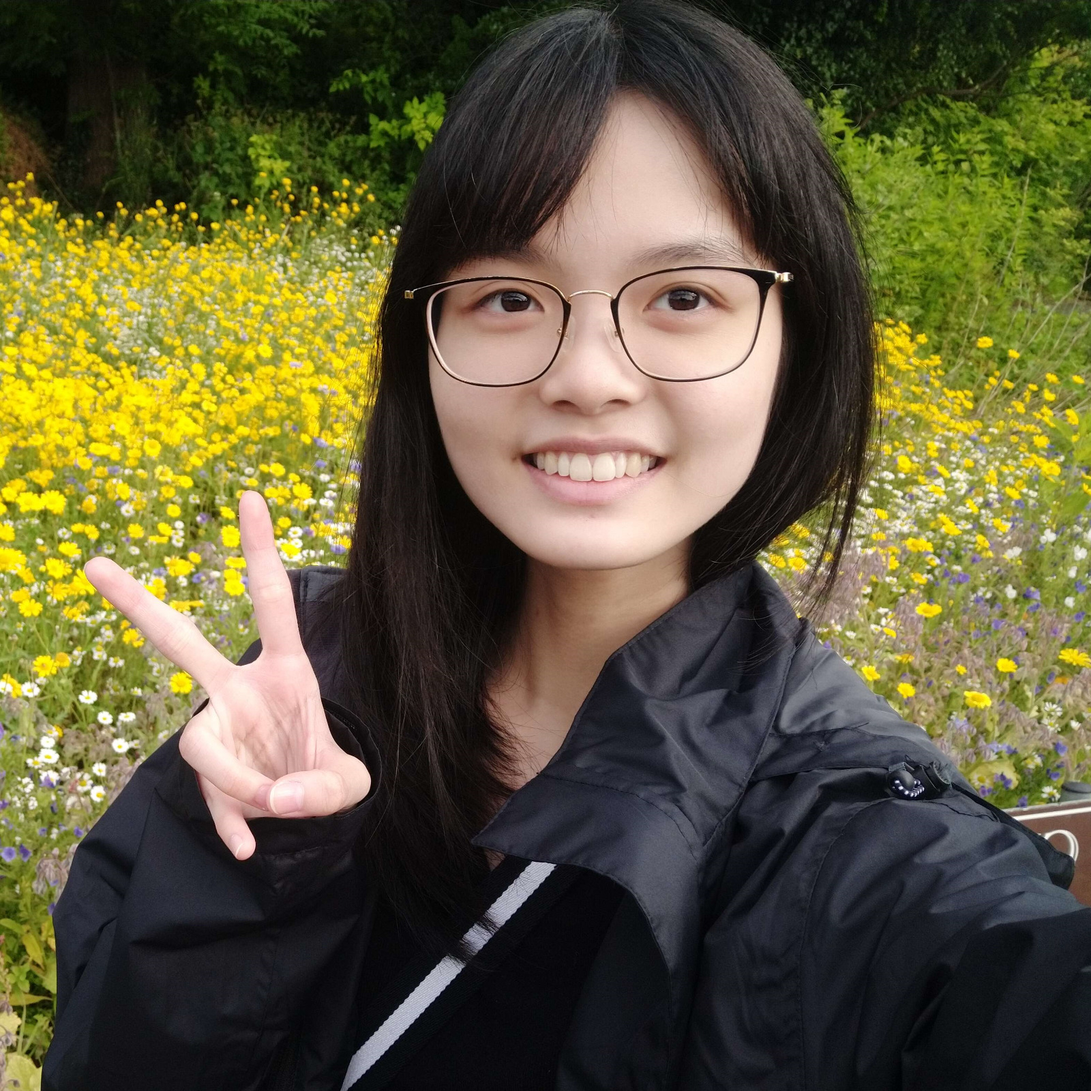
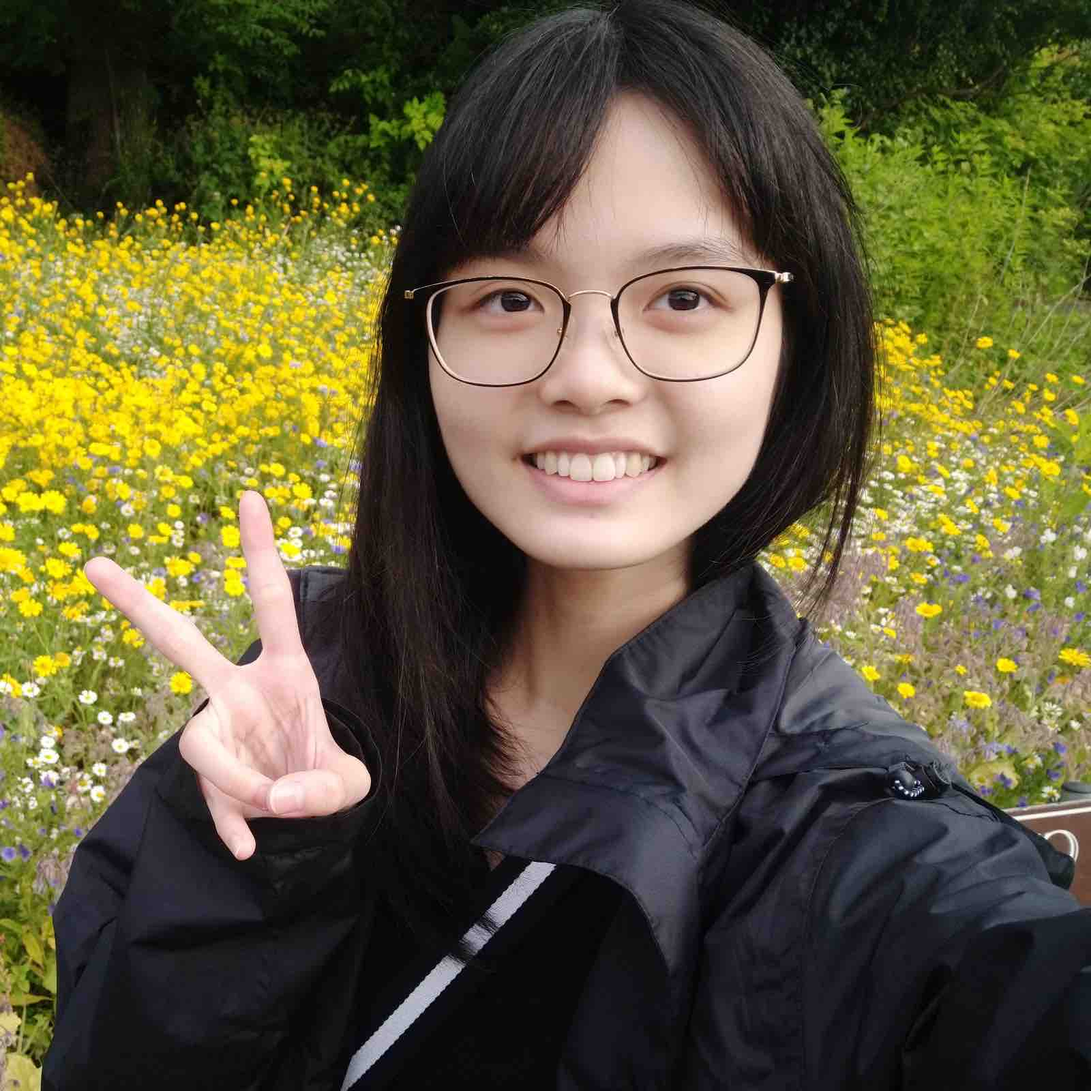
reduce file size

diff --git a/docs/index.html b/docs/index.html
@@ -69,7 +69,7 @@
 					<div class="avatar text-center">
 						<img src="./public/img/team2A/Ang Quan Xing.jpg" alt="avatar" class="avatar-img">
 						<img src="./public/img/team2A/Cheo Cheang Min.jpeg" alt="avatar" class="avatar-img">
-						<img src="./public/img/team2A/Darren Quek Ser Wee.png" alt="avatar" class="avatar-img">
+						<img src="./public/img/team2A/Darren Quek Ser Wee.jpg" alt="avatar" class="avatar-img">
 						<img src="./public/img/team2A/Mirza Bin Mohamad Aljaru.jpg" alt="avatar" class="avatar-img">
 						<img src="./public/img/team2A/Soh Ming Le.jpeg" alt="avatar" class="avatar-img">
 						<img src="./public/img/team2A/tan yi.jpeg" alt="avatar" class="avatar-img">
@@ -344,7 +344,7 @@
 							artefacts of the Hunterian Museum.
 						</div>
 						<div class="avatar">
-							<img src="./public/img/team3B/3B_Ayan.jpg" alt="avatar" class="avatar-img">
+							<img src="./public/img/team3B/3B_Ayan.jpeg" alt="avatar" class="avatar-img">
 							<img src="./public/img/team3B/Ivan.jpeg" alt="avatar" class="avatar-img">
 							<img src="./public/img/team3B/Jeff.jpeg" alt="avatar" class="avatar-img">
 							<img src="./public/img/team3B/JunXiang.jpeg" alt="avatar" class="avatar-img">
@@ -387,9 +387,9 @@
 						</div>
 						<div class="avatar">
 							<img src="./public/img/team4A/Chrystal-portrait.jpg" alt="avatar" class="avatar-img">
-							<img src="./public/img/team4A/shawn-portrait.jpg" alt="avatar" class="avatar-img">
+							<img src="./public/img/team4A/shawn-portrait.jpeg" alt="avatar" class="avatar-img">
 							<img src="./public/img/team4A/Shermaine-portrait.jpg" alt="avatar" class="avatar-img">
-							<img src="./public/img/team4A/XueLi-portrait.jpg" alt="avatar" class="avatar-img">
+							<img src="./public/img/team4A/XueLi-portrait.jpeg" alt="avatar" class="avatar-img">
 							<img src="./public/img/team4A/Yi Lin-portrait.jpg" alt="avatar" class="avatar-img">
 							<img src="./public/img/team4A/Zi Hao-portrait.jpeg" alt="avatar" class="avatar-img">
 						</div>
@@ -726,7 +726,7 @@
 						<div class="avatar">
 							<img src="./public/img/team8A/8A_Perpetua.jpg" alt="avatar" class="avatar-img">
 							<img src="./public/img/team8A/8A_Reagan.jpg" alt="avatar" class="avatar-img">
-							<img src="./public/img/team8A/8A_Roshan.jpg" alt="avatar" class="avatar-img">
+							<img src="./public/img/team8A/8A_Roshan.jpeg" alt="avatar" class="avatar-img">
 							<img src="./public/img/team8A/8A_Roy.jpg" alt="avatar" class="avatar-img">
 							<img src="./public/img/team8A/8A_Vincent.jpeg" alt="avatar" class="avatar-img">
 							<img src="./public/img/team8A/8A_Wei_bing.jpg" alt="avatar" class="avatar-img">
@@ -908,7 +908,7 @@
 							<img src="./public/img/team10B/alastair.jpeg" alt="avatar" class="avatar-img">
 							<img src="./public/img/team10B/dingyuan.jpeg" alt="avatar" class="avatar-img">
 							<img src="./public/img/team10B/jared.jpg" alt="avatar" class="avatar-img">
-							<img src="./public/img/team10B/mathan.jpg" alt="avatar" class="avatar-img">
+							<img src="./public/img/team10B/mathan.jpeg" alt="avatar" class="avatar-img">
 							<img src="./public/img/team10B/ronnie.jpeg" alt="avatar" class="avatar-img">
 							<img src="./public/img/team10B/zhizhan.jpeg" alt="avatar" class="avatar-img">
 						</div>
